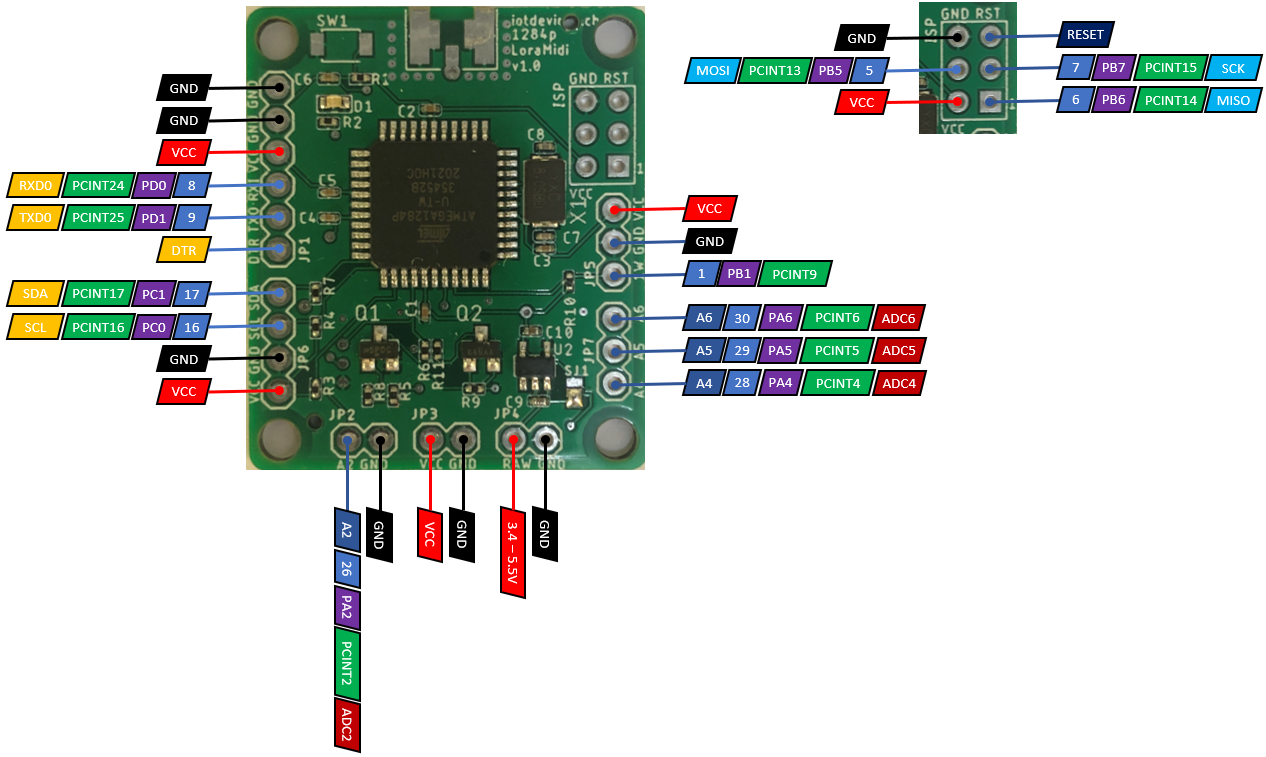
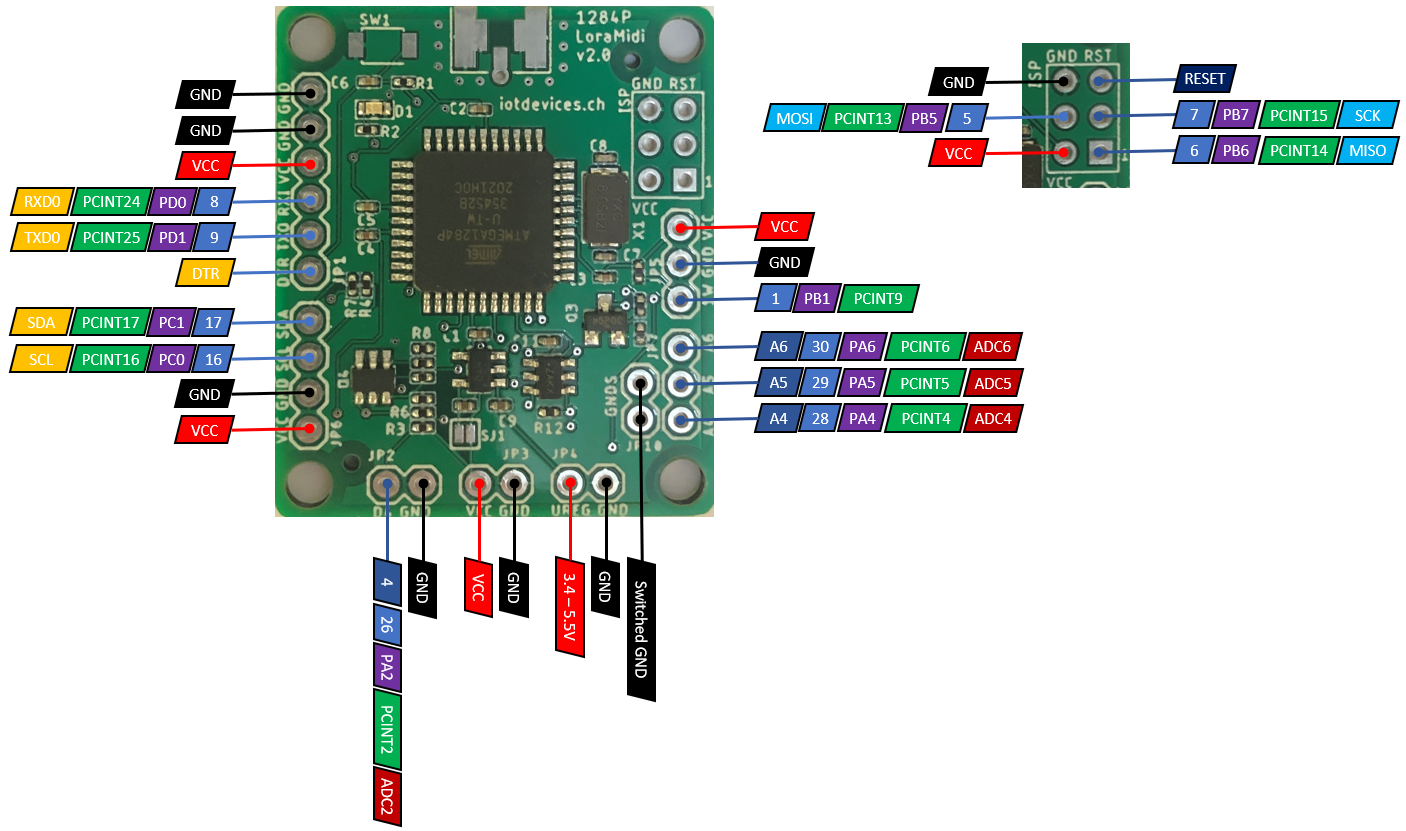
bump to v2

Changed region(s): [[0.0, 0.0, 1.0, 1.0]]

diff --git a/README.md b/README.md
@@ -1,26 +1,32 @@
 # LoraMidi Atmega1284P
-Small Lora(WAN) board using an Atmega1284P chip and RFM95 module
+Special and small Lora(WAN) board using an Atmega1284P chip, RFM95 module and TPL5010 timer with watchdog function. 
 
 ## Specialities about this board
 - Arduino compatible
-- Atmega1284P with 128KB flash and 16KB RAM, perfect replacement for Atmega328 boards if using LoraWAN
+- Atmega1284P with 128KB flash and 16KB RAM, easy replacement for Atmega328p boards
 - Small form factor, 36.5mm lenght, 31.5mm width
 - TPS782 low quiescent 500nA regulator
-- RFM95 can be soldere to the bottom side
+- RFM95 can be soldered to the bottom side
+- Wire antenna, helical antenna, SMA antenna support
+- TPL5010 can be used to wakeup the Atmega, with optional watchdog function
 - Voltage divier on board, enabled through two MOSFET driven by pin 0
-- I2C and 1Wire pullups on board
+- I2C and 1-Wire pullups on board
 - Input pin for interrupts with pullup resistor on board
+- Two GND pins can be powered on/off through a MOSFET driven by pin 15 to power on/off external peripherals
 
-## Board version 1.0
+## Board version 2.0
 ### Powering the board
-Maximum input voltage on RAW pin: 5.5V<br>
-Recommended minimum input voltage on RAW pin: 3.4V<br>
+Maximum input voltage on UREG pin: 5.5V<br>
+Recommended minimum input voltage on UREG pin: 3.4V<br>
 LDO maximum current: 150mA<br>
 VCC on this board is 3.3V<br>
-With board version 1.0 it is not recommended to power the board through VCC if running from batteries<br>
-### Sleep current ‘as is’ (without RFM95 or peripherals):
-Sleep current with WDT disabled and attached interrupt (1 minute average): 510nA<br>
-Sleep current with WDT enabled (1 minute average): 5.8μA
+To power the board through VCC it is recommended to cut the trace from the LDO to VCC to reduce power consumption. See in the solder jumper section how to disable the LDO.<br>
+### Sleep current without TPL5010 and RFM95, powered through the LDO:
+Sleep current with WDT disabled and attached interrupt (1 minute average): 520nA<br>
+Sleep current with WDT enabled (1 minute average): 6.1μA
+### Sleep current with TPL5010 and without RFM95, powered through the LDO:
+Sleep current with WDT disabled and TPL5010 attached as intterupt: 560nA
+### Sleep currents without LDO is approx. 500nA lower
 
 ## Pinout
 ![Pinout](/docs/images/pinout.png?raw=true "Pinout")<br>
@@ -28,7 +34,26 @@ The following pullups/pulldowns are already included on the board for easy usage
 - Pin 1 / 1 Wire / 4.7K pullup
 - Pin 16 / SDA, 4.7K pullup
 - Pin 17 / SCL, 4.7K pullup
-- Pin A2 / Interrupt / 10K pullup
+- Pin 4 / Interrupt / 10K pullup
+
+## Solder jumpers
+The board has four solder jumpers.
+### LDO on/off
+- Top side, SJ1, closed = LDO on, open = LDO off
+### Voltage divider UREG/VCC selection
+- Bottom side, SJ2, left + middle connected = measure UREG, right + middle connected = measure VCC
+### TPL5010 on/off
+- Bottom side, SJ3, closed = TPL5010 powered, open = TPL5010 not powered
+### TPL5010 WDT functionality on/off
+- Bottom side, SJ4, closed = TPL5010 WDT on, open = TPL5010 WDT off
+![Solderjumpers](/docs/images/solderjumpers.png?raw=true "Solderjumpers")<br>
+
+## TPL5010 configuration
+The TPL5010 provides selectable timing intervals through resistor(s). On the bottom side, R14, R15 and VR1 are wired in parallel.<br>
+To set a fixed time interval, populate either one or both R14 and R15 resistors with the desired value resistors.<br>
+To set a variable time interval, don't populate R14 and R15 but populate VR1 with a trimmpotentiometer.<br>
+R14 and R15 are 0805 in size, the trimmpotentiometer pads are suited for the TC33X-2 line from Bourns.<br>
+Please check the datasheet on page 14 and 15 of the TPL5010 for the available timing intervals: https://www.ti.com/lit/ds/symlink/tpl5010.pdf<br>
 
 ## How to get started
 - Install current version of Arduino IDE
